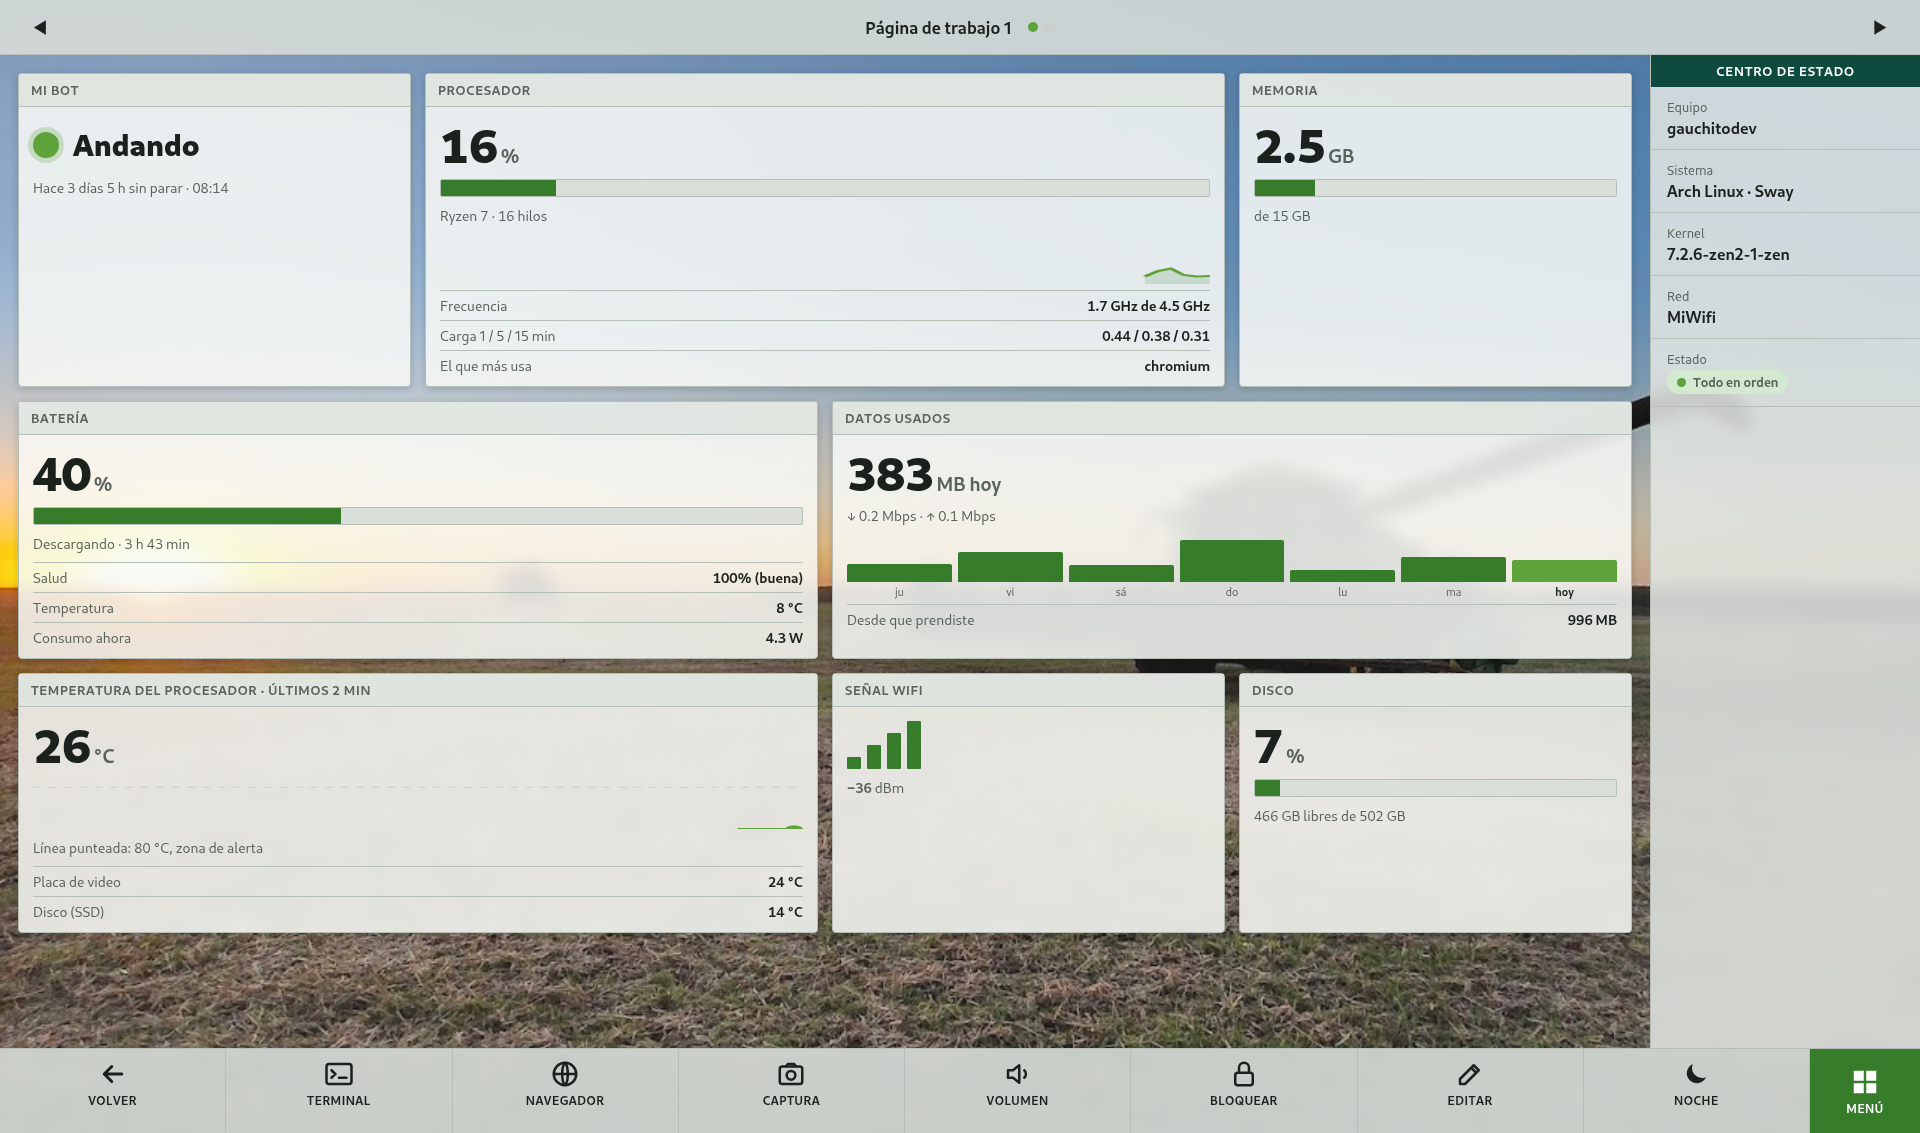
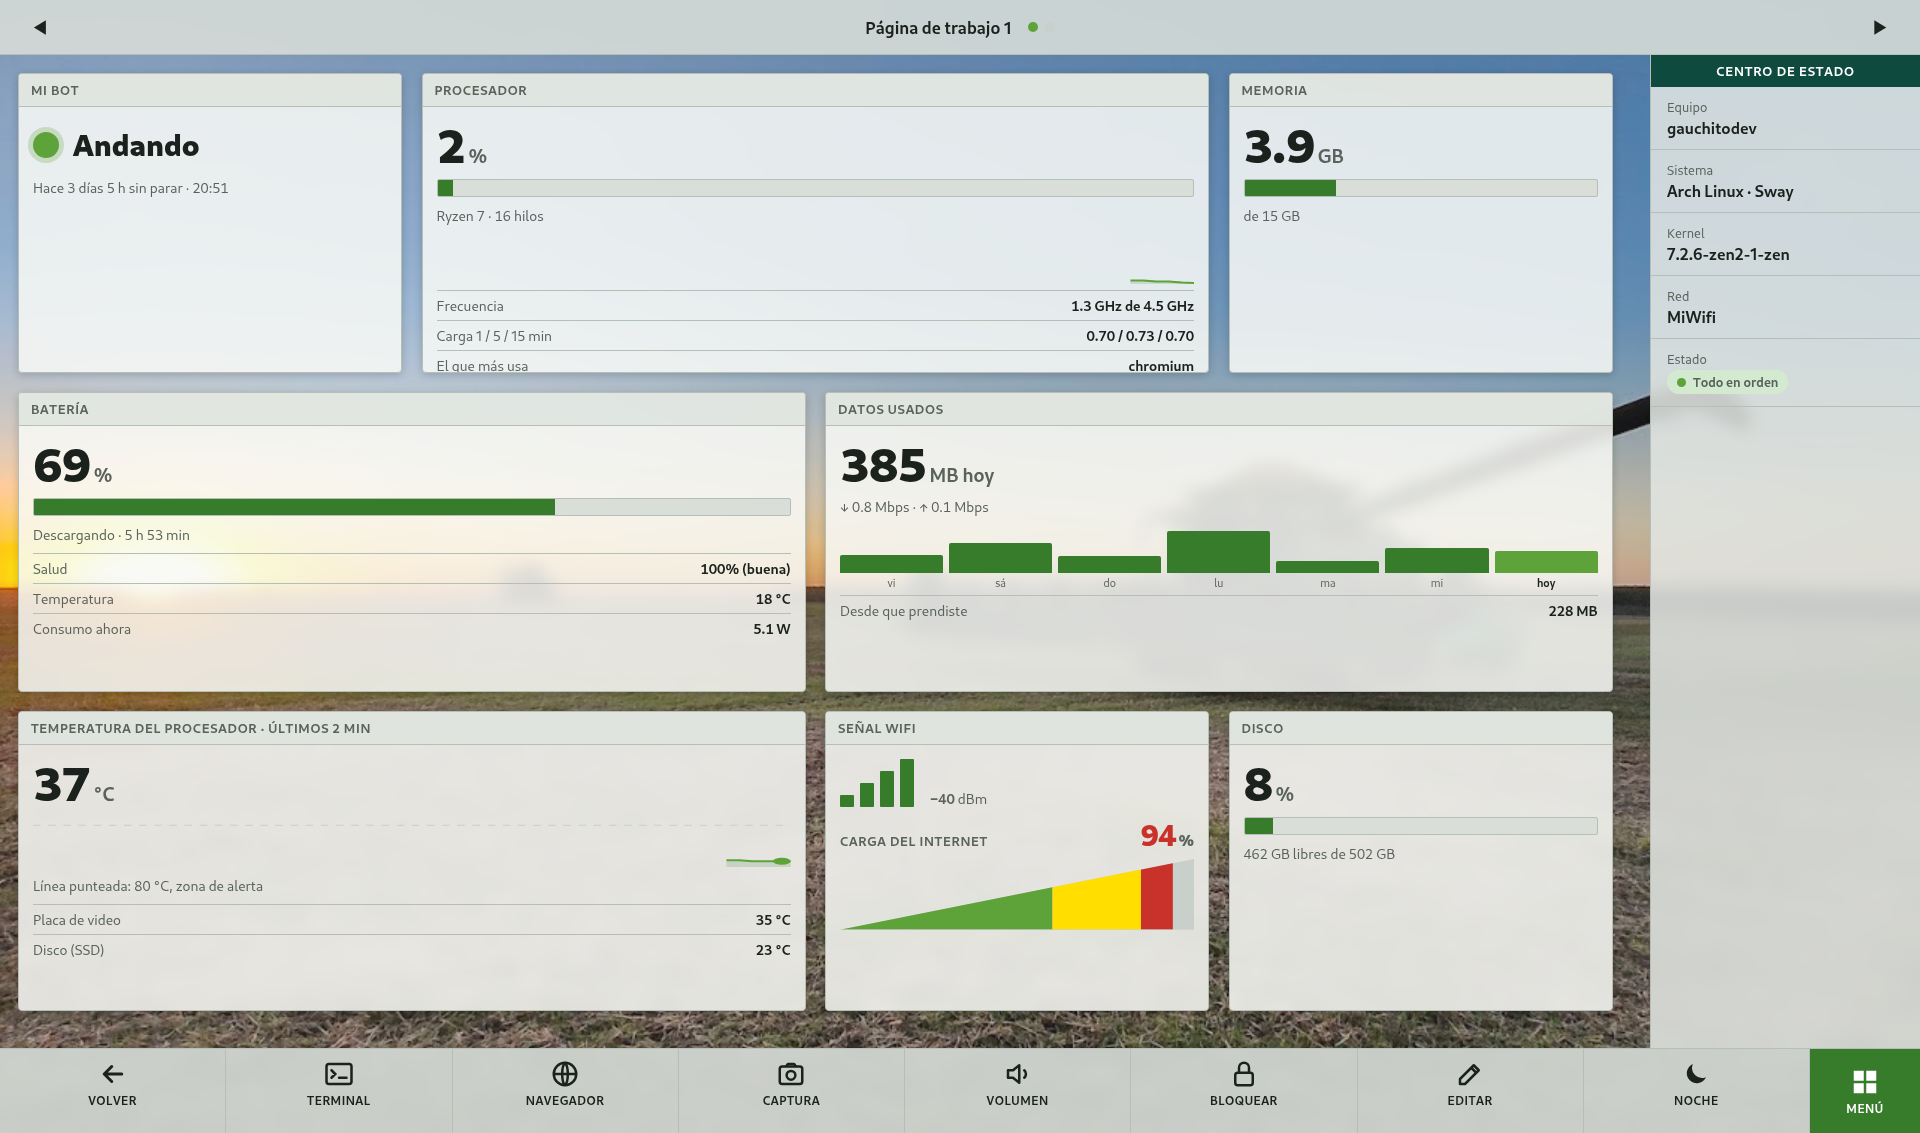
Capturas nuevas con la carga del internet en el rojo y pantalla de bloqueo
El modo demo deja la carga fija en ~94 % para que las capturas luzcan los colores.

Changed region(s): [[0.0, 0.0618, 0.875, 0.8959]]

diff --git a/home/server.py b/home/server.py
@@ -269,8 +269,10 @@ def _contar_red():
 def uso_red():
     hoy = date.today()
     semana = [(hoy - timedelta(days=i)).isoformat() for i in range(6, -1, -1)]
+    # En el demo la carga del internet queda en el rojo, así las capturas lucen los colores
+    bajada, subida = (0.82, 0.12) if DEMO else (_red_uso["bajada"], _red_uso["subida"])
     return {
-        "bajada": _red_uso["bajada"], "subida": _red_uso["subida"],
+        "bajada": bajada, "subida": subida,
         "hoy_mb": round(_red_uso["dias"].get(hoy.isoformat(), 0) / 1048576),
         "semana": [{"dia": d, "mb": round(_red_uso["dias"].get(d, 0) / 1048576)} for d in semana],
     }

diff --git a/README.md b/README.md
@@ -22,6 +22,10 @@ pantalla táctil.
 | ![Modo día](capturas/4-modo-dia.png) | ![Panel de Bluetooth](capturas/5-bluetooth.png) |
 | Modo día | Panel de Bluetooth: prender, conectar y vincular con el dedo |
 
+![Pantalla de bloqueo](capturas/6-bloqueo.png)
+
+Pantalla de bloqueo (al suspender o con `Super+Shift+X`): la cosechadora de fondo y el círculo en verde G5.
+
 ## Qué trae
 
 - **Barra de arriba** (Waybar) con el estilo de la barra de título de la G5:
